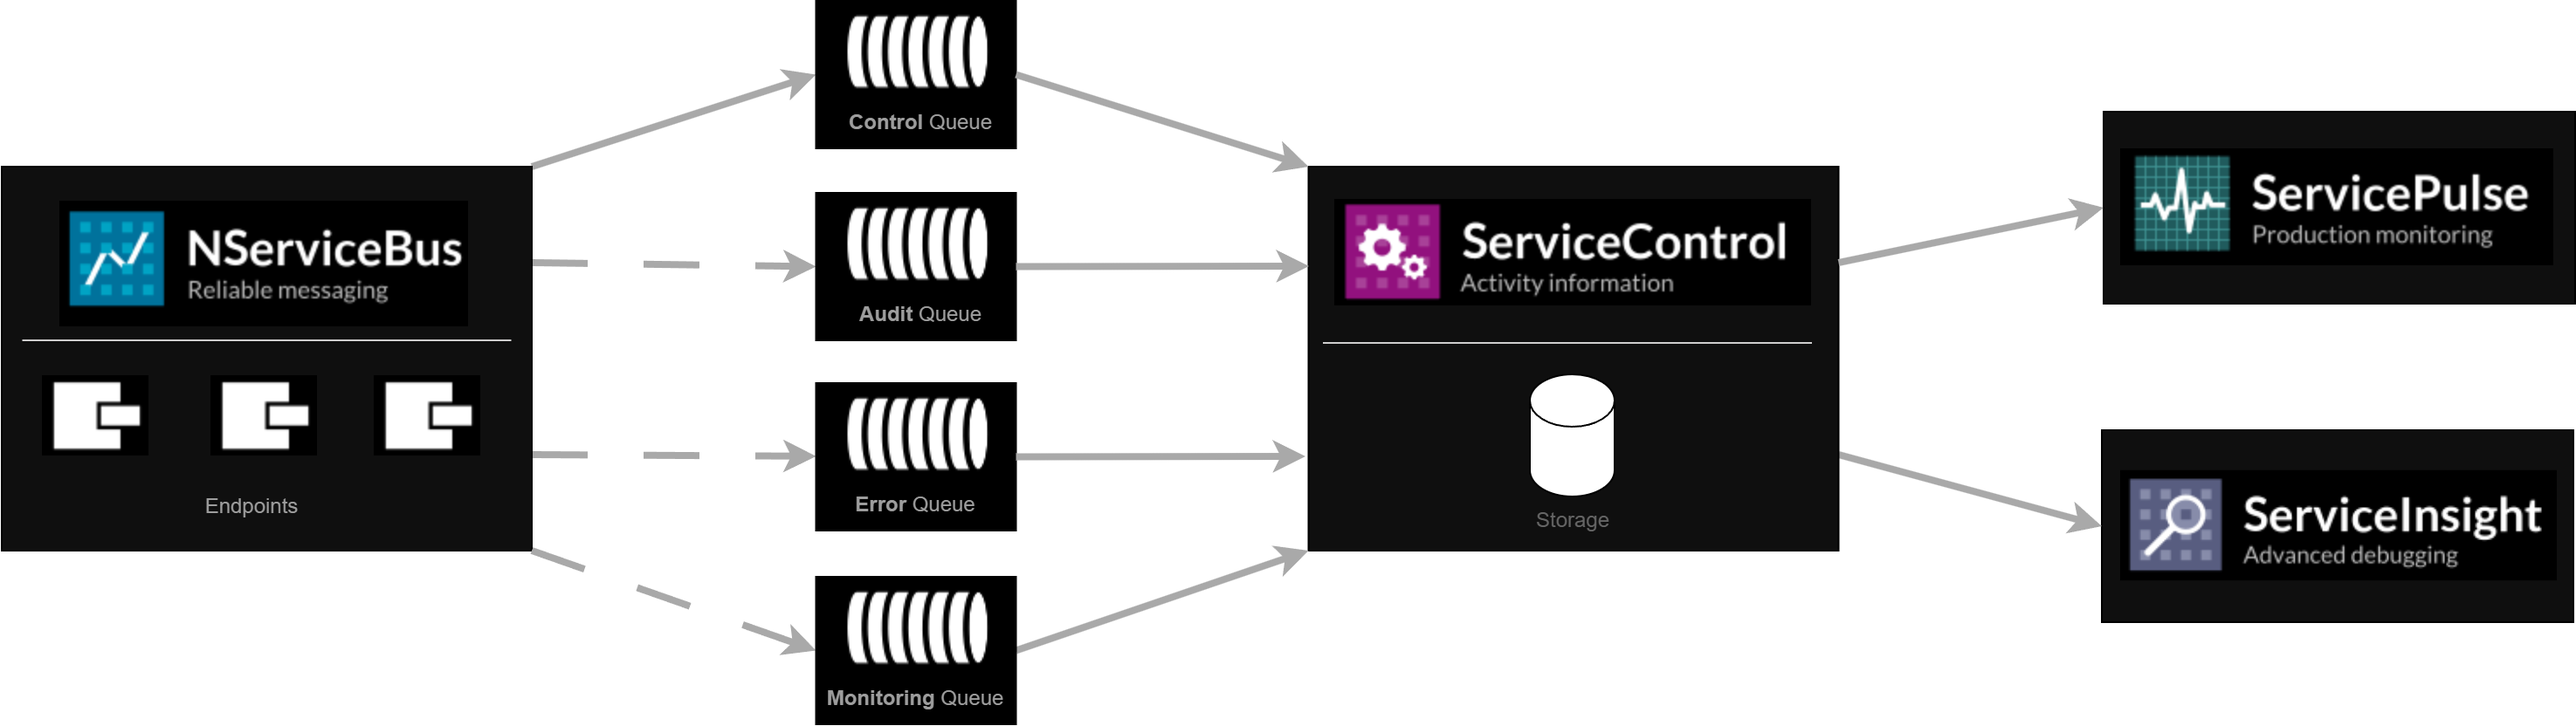
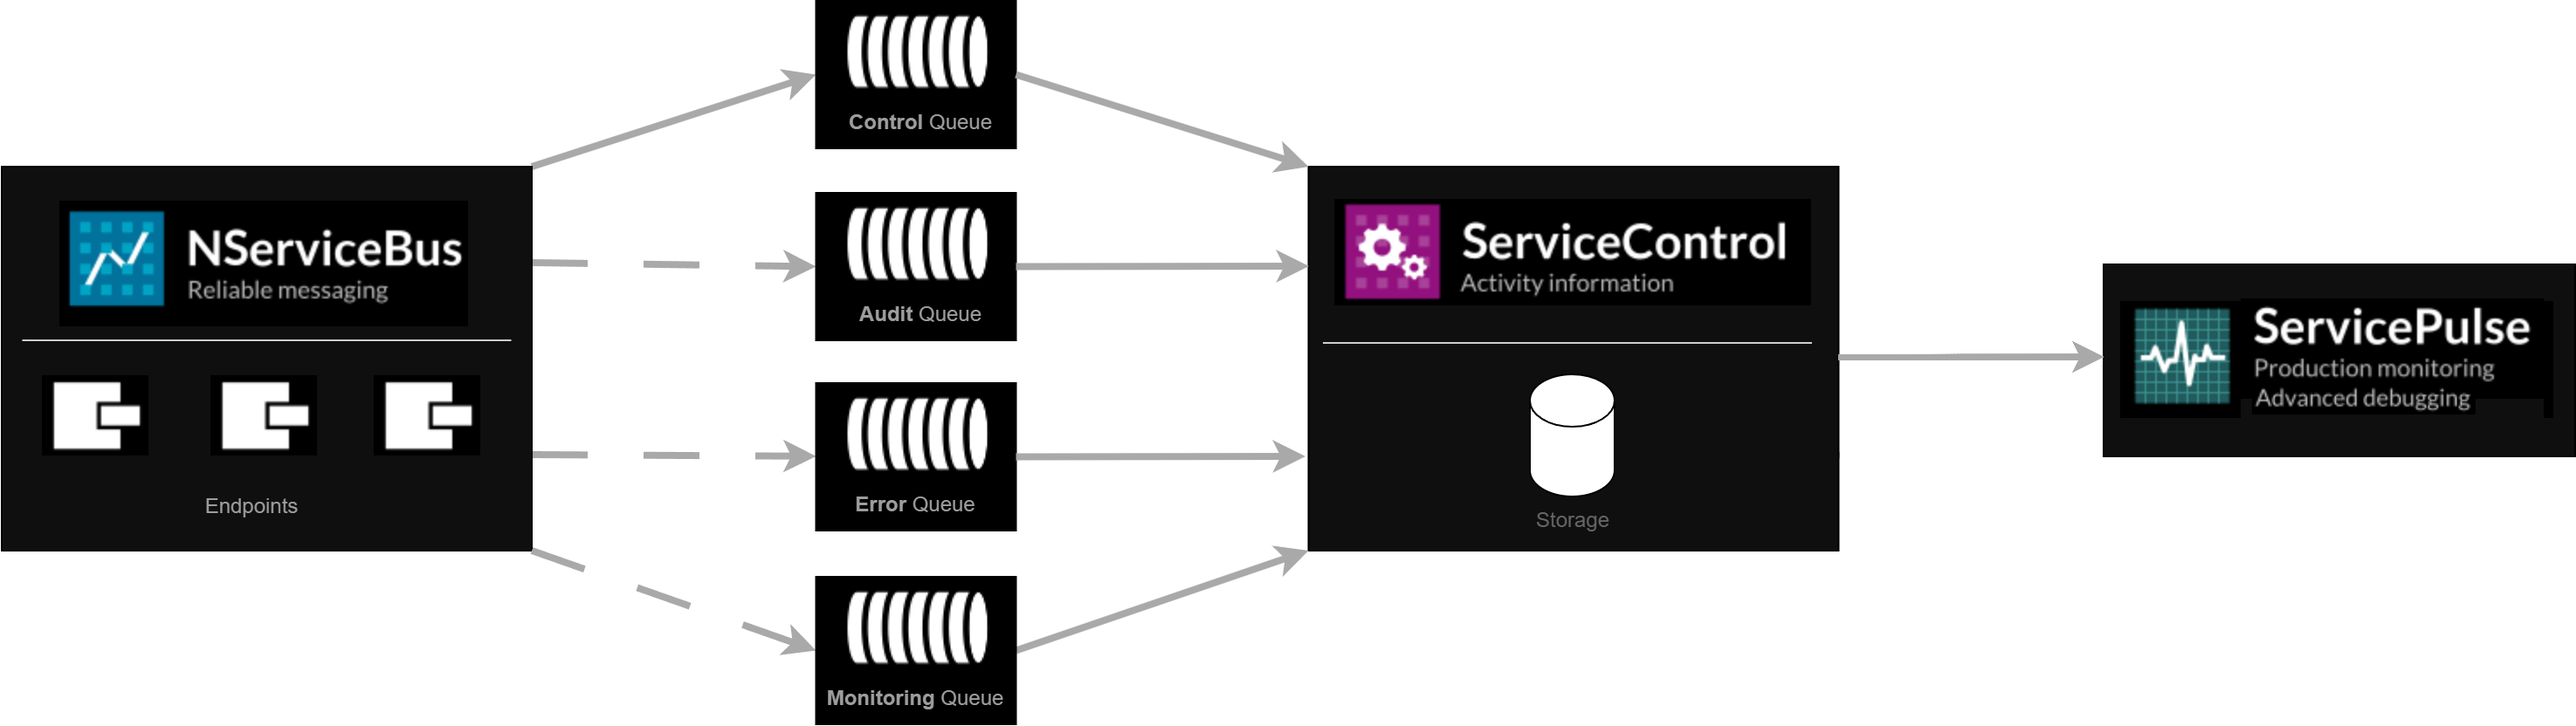
Removed ServiceInsight from docs under /platform

diff --git a/platform/index.md b/platform/index.md
@@ -11,11 +11,11 @@ Messaging is a great way to build loosely coupled, scalable, and reliable system
 
 The Platform's goal is to provide a set of tools that make it easier to build and maintain messaging systems. The tools are tailored to the common needs of messaging systems and 'just work', out of the box. They enable developers to focus on more important challenges, such as gaining a better understanding of their business domains.
 
-The Particular Service Platform consists of [NServiceBus](/nservicebus), [ServiceControl](/servicecontrol), [ServicePulse](/servicepulse), and [ServiceInsight](/serviceinsight).
+The Particular Service Platform consists of [NServiceBus](/nservicebus), [ServiceControl](/servicecontrol), and [ServicePulse](/servicepulse).
 
 ![Particular Service Platform architecture](architecture-overview.png)
 
-The details of each component are discussed below. A Particular Service Platform-based system consists of several NServiceBus [endpoints](/nservicebus/endpoints/). Endpoints are logical entities that perform business operations. They communicate with each other using messages (via queues) and forward messages to ServiceControl for auditing. ServiceControl stores this audit trail and provides integration points for ServicePulse and ServiceInsight. ServicePulse provides monitoring and recoverability for production systems. ServiceInsight and ServicePulse provide debugging information and visualization of how the system works.
+The details of each component are discussed below. A Particular Service Platform-based system consists of several NServiceBus [endpoints](/nservicebus/endpoints/). Endpoints are logical entities that perform business operations. They communicate with each other using messages (via queues) and forward messages to ServiceControl for auditing. ServiceControl stores this audit trail and provides integration points for ServicePulse. ServicePulse provides monitoring and recoverability for production systems. ServicePulse provides debugging information and visualization of how the system works.
 
 ## [NServiceBus](/nservicebus) - where it all begins
 
@@ -25,16 +25,12 @@ include: nservicebus
 
 include: servicecontrol
 
-## [ServicePulse](/servicepulse) - debug, retry and monitor
+## [ServicePulse](/servicepulse) - debug, retry, monitor and visualize
 
 include: servicepulse
 
-## [ServiceInsight](/serviceinsight) - visualization
-
-include: serviceinsight
-
 ## Working with the platform
 
-ServiceControl and ServicePulse are server applications. They should be deployed in each environment, for example: test, QA, and production. ServiceInsight is a client application. It should be deployed on a workstation and connected to ServiceControl in the appropriate environment.
+ServiceControl and ServicePulse are server applications. They should be deployed in each environment, for example: test, QA, and production.
 
 When investigating problems or developing [custom checks](/monitoring/custom-checks/), it can be useful to have the Platform installed on a development machine.

diff --git a/platform/nservicebus.include.md b/platform/nservicebus.include.md
@@ -76,7 +76,7 @@ NServiceBus is designed to work with the rest of the Particular Service Platform
 
 When a message fails to be processed, even after a number of retry strategies have been attempted, NServiceBus will forward the message to an [error queue](/nservicebus/recoverability/configure-error-handling.md) for manual investigation. Messages sent to the error queue are instrumented with headers containing details about the failure including a full exception stack trace. ServiceControl picks up messages from the error queue and makes them available in [ServicePulse](/servicepulse/). Once the root cause of the failure has been found and corrected, all messages caused by the same problem can be retried at once.
 
-Additionally, each endpoint can send [heartbeat](/monitoring/heartbeats/), [health check](/monitoring/custom-checks/), and [performance metrics](/monitoring/metrics/) through the platform for visualization in ServicePulse, making it easy to see which endpoints are offline, which are ready to scale out, and which require manual intervention. Message  visualizations available in [ServicePulse](/servicepulse/message-details.md#messages-with-audited-conversation-data) and [ServiceInsight](/serviceinsight/) make it easy to understand message flows and timing of a running NServiceBus system.
+Additionally, each endpoint can send [heartbeat](/monitoring/heartbeats/), [health check](/monitoring/custom-checks/), and [performance metrics](/monitoring/metrics/) through the platform for visualization in ServicePulse, making it easy to see which endpoints are offline, which are ready to scale out, and which require manual intervention. Message  visualizations available in [ServicePulse](/servicepulse/message-details.md#messages-with-audited-conversation-data) make it easy to understand message flows and timing of a running NServiceBus system.
 
 The [real-time monitoring demo](https://particular.net/real-time-monitoring) provides the ability to experience the Service Platform in action. The [Platform Sample package](/platform/platform-sample-package.md) provides the ability to demonstrate the Service Platform from within any .NET Project, without the need to install anything.
 

diff --git a/platform/platform-sample-package.md b/platform/platform-sample-package.md
@@ -10,7 +10,7 @@ The [Platform Sample package](https://www.nuget.org/packages/Particular.Platform
 > [!WARNING]
 > The Platform Sample is not suited for production usage and should only be used for demonstrating the Platform during presentations or in samples.
 
-The Platform Sample package includes instances of ServiceControl, ServiceControl Monitoring, and ServicePulse. They are all configured to use the [Learning Transport](/transports/learning/). Other transports are not supported by the Platform Sample package. At this time, ServiceInsight is not included in the Platform Sample package.
+The Platform Sample package includes instances of ServiceControl, ServiceControl Monitoring, and ServicePulse. They are all configured to use the [Learning Transport](/transports/learning/). Other transports are not supported by the Platform Sample package.
 
 ## Installation
 
@@ -51,8 +51,6 @@ snippet: ServicePulseDefaultRoute
 ## Sample
 
 The [message replay tutorial](/tutorials/message-replay) is a sample that uses the Platform Sample package to view and retry failed messages. It shows how the Platform Sample package works from within an existing Visual Studio solution.
-
-To use ServiceInsight with the sample, [download](https://github.com/Particular/serviceinsight/releases/latest) and install ServiceInsight. After starting ServiceInsight, connect to ServiceControl using the [Endpoint Explorer](/serviceinsight/#endpoint-explorer) at, for example, `http://localhost:49200/api`.
 
 > [!NOTE]
 > The Platform Sample package will search for available ports and then display the ports being used. The actual ServiceControl port that needs to be used in the Endpoint Explorer can be seen in the output.

diff --git a/platform/servicecontrol.include.md b/platform/servicecontrol.include.md
@@ -1,3 +1,3 @@
-ServiceControl is the backend for ServicePulse and ServiceInsight. It is a background process that collects useful information about an NServiceBus system. This includes messages that cannot be processed, their exceptions, and the ability to collect every message flowing through the system. It can also collect saga state changes, endpoint [heartbeats](/monitoring/heartbeats/), and perform [custom checks](/monitoring/custom-checks/). This information is exposed to [ServicePulse](/servicepulse) and [ServiceInsight](/serviceinsight) via an HTTP API.
+ServiceControl is the backend for ServicePulse. It is a background process that collects useful information about an NServiceBus system. This includes messages that cannot be processed, their exceptions, and the ability to collect every message flowing through the system. It can also collect saga state changes, endpoint [heartbeats](/monitoring/heartbeats/), and perform [custom checks](/monitoring/custom-checks/). This information is exposed to [ServicePulse](/servicepulse) via an HTTP API.
 
 ServiceControl can also be configured to collect [detailed performance metrics](/monitoring/metrics/) for display in ServicePulse.

diff --git a/platform/release-notes.md b/platform/release-notes.md
@@ -1,7 +1,7 @@
 ---
 title: Platform Releases
 summary: Links to current and previous releases as well as release notes for the Particular Service Platform applications
-reviewed: 2025-05-13
+reviewed: 2025-11-26
 ---
 
 ## Applications and tools
@@ -12,7 +12,6 @@ The Particular Service Platform source code, current and previous releases, and 
 | | | |
 |:--- |:--- |:--- |
 | **NServiceBus** | [Releases](https://github.com/Particular/NServiceBus/tags) | [Release Notes](https://github.com/Particular/NServiceBus/releases)|
-| **ServiceInsight** | [Releases](https://github.com/Particular/ServiceInsight/tags)|[Release Notes](https://github.com/Particular/ServiceInsight/releases)|
 | **ServicePulse** | [Releases](https://github.com/Particular/ServicePulse/tags)|[Release Notes](https://github.com/Particular/ServicePulse/releases)|
 | **ServiceControl** | [Releases](https://github.com/Particular/ServiceControl/tags)|[Release Notes](https://github.com/Particular/ServiceControl/releases)|
 

diff --git a/platform/installation.md b/platform/installation.md
@@ -73,11 +73,3 @@ ServicePulse, along with ServiceControl, can be hosted in Visual Studio, with no
 #### Switch between ServiceControl Error instances
 
 When multiple ServiceControl Error instances are deployed, ServicePulse can be configured to switch between instances via the [ServicePulse UI connection management screen](/servicepulse/host-config.md#configuring-connections-via-the-servicepulse-ui).
-
-### ServiceInsight
-
-ServiceInsight can be installed using a dedicated [installation package](https://particular.net/downloads), which installs ServiceInsight as a Windows application.
-
-#### Switch between ServiceControl instances
-
-When multiple ServiceControl Error instances are deployed, the instance can be chosen using ServiceInsight's [Endpoint Explorer](/serviceinsight/#endpoint-explorer).

diff --git a/platform/third-party-licenses.md b/platform/third-party-licenses.md
@@ -1,11 +1,10 @@
 ---
 title: Third-party licenses
 summary: Licenses for third-party libraries used by the Particular Service Platform.
-reviewed: 2024-11-29
+reviewed: 2025-11-26
 related:
   - nservicebus/licensing
   - servicecontrol/license
-  - serviceinsight/license
 redirects:
   - nservicebus/upgrades/third-party-licenses
 ---
